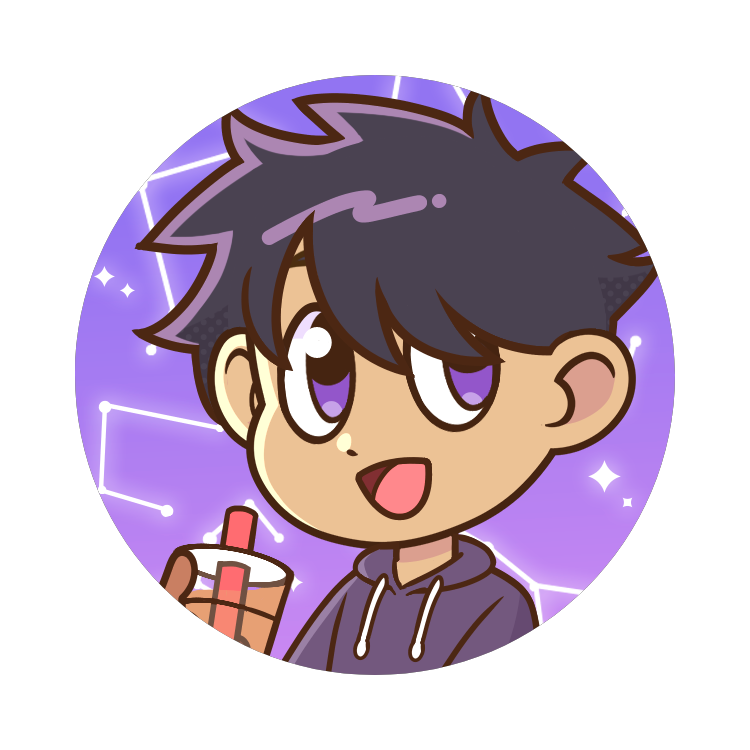
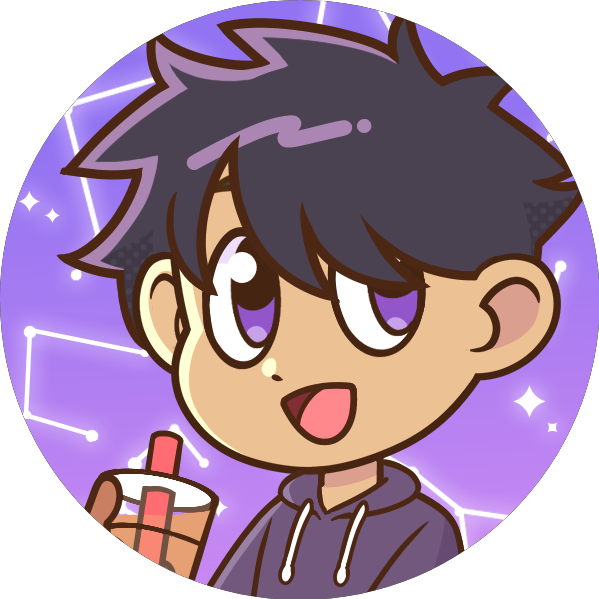
fix

diff --git a/index.html b/index.html
@@ -6,7 +6,7 @@
         <title>Rohan Bansal</title>
         <meta property="og:type" content="website">
         <meta name="description" content="Hacker, Maker, and Guitarist in Southern California.">
-        <link rel="icon" type="image/png" sizes="750x750" href="img/me.png">
+        <link rel="icon" type="image/png" sizes="599x599" href="img/me.png">
 
         <link href="https://fonts.googleapis.com/css2?family=IBM+Plex+Sans:wght@700&display=swap" rel="stylesheet"> 
         <link rel="stylesheet" href="https://cdnjs.cloudflare.com/ajax/libs/animate.css/4.1.1/animate.min.css"/>
@@ -18,25 +18,25 @@
         <div class="social-media-column animate__animated animate__fadeInUp" orientation="left">
             <ul class="sm-items">
                 <li>
-                    <a href="https://github.com/rohan-bansal" aria-label="GitHub">
+                    <a href="https://github.com/rohan-bansal" aria-label="GitHub" target="_blank">
                         <svg xmlns="http://www.w3.org/2000/svg" role="img" viewBox="0 0 438.549 438.549"><title>GitHub</title><path d="M409.132,114.573c-19.608-33.596-46.205-60.194-79.798-79.8C295.736,15.166,259.057,5.365,219.271,5.365 c-39.781,0-76.472,9.804-110.063,29.408c-33.596,19.605-60.192,46.204-79.8,79.8C9.803,148.168,0,184.854,0,224.63 c0,47.78,13.94,90.745,41.827,128.906c27.884,38.164,63.906,64.572,108.063,79.227c5.14,0.954,8.945,0.283,11.419-1.996 c2.475-2.282,3.711-5.14,3.711-8.562c0-0.571-0.049-5.708-0.144-15.417c-0.098-9.709-0.144-18.179-0.144-25.406l-6.567,1.136 c-4.187,0.767-9.469,1.092-15.846,1c-6.374-0.089-12.991-0.757-19.842-1.999c-6.854-1.231-13.229-4.086-19.13-8.559 c-5.898-4.473-10.085-10.328-12.56-17.556l-2.855-6.57c-1.903-4.374-4.899-9.233-8.992-14.559 c-4.093-5.331-8.232-8.945-12.419-10.848l-1.999-1.431c-1.332-0.951-2.568-2.098-3.711-3.429c-1.142-1.331-1.997-2.663-2.568-3.997 c-0.572-1.335-0.098-2.43,1.427-3.289c1.525-0.859,4.281-1.276,8.28-1.276l5.708,0.853c3.807,0.763,8.516,3.042,14.133,6.851 c5.614,3.806,10.229,8.754,13.846,14.842c4.38,7.806,9.657,13.754,15.846,17.847c6.184,4.093,12.419,6.136,18.699,6.136 c6.28,0,11.704-0.476,16.274-1.423c4.565-0.952,8.848-2.383,12.847-4.285c1.713-12.758,6.377-22.559,13.988-29.41 c-10.848-1.14-20.601-2.857-29.264-5.14c-8.658-2.286-17.605-5.996-26.835-11.14c-9.235-5.137-16.896-11.516-22.985-19.126 c-6.09-7.614-11.088-17.61-14.987-29.979c-3.901-12.374-5.852-26.648-5.852-42.826c0-23.035,7.52-42.637,22.557-58.817 c-7.044-17.318-6.379-36.732,1.997-58.24c5.52-1.715,13.706-0.428,24.554,3.853c10.85,4.283,18.794,7.952,23.84,10.994 c5.046,3.041,9.089,5.618,12.135,7.708c17.705-4.947,35.976-7.421,54.818-7.421s37.117,2.474,54.823,7.421l10.849-6.849 c7.419-4.57,16.18-8.758,26.262-12.565c10.088-3.805,17.802-4.853,23.134-3.138c8.562,21.509,9.325,40.922,2.279,58.24 c15.036,16.18,22.559,35.787,22.559,58.817c0,16.178-1.958,30.497-5.853,42.966c-3.9,12.471-8.941,22.457-15.125,29.979 c-6.191,7.521-13.901,13.85-23.131,18.986c-9.232,5.14-18.182,8.85-26.84,11.136c-8.662,2.286-18.415,4.004-29.263,5.146 c9.894,8.562,14.842,22.077,14.842,40.539v60.237c0,3.422,1.19,6.279,3.572,8.562c2.379,2.279,6.136,2.95,11.276,1.995 c44.163-14.653,80.185-41.062,108.068-79.226c27.88-38.161,41.825-81.126,41.825-128.906 C438.536,184.851,428.728,148.168,409.132,114.573z"></path>
                         </svg>
                     </a>
                 </li>
                 <li>
-                    <a href="https://www.linkedin.com/in/bansal-rohan" aria-label="Linkedin">
+                    <a href="https://www.linkedin.com/in/bansal-rohan" aria-label="Linkedin" target="_blank">
                         <svg xmlns="http://www.w3.org/2000/svg" role="img" viewBox="0 0 430.117 430.117"><title>LinkedIn</title><path d="M430.117,261.543V420.56h-92.188V272.193c0-37.271-13.334-62.707-46.703-62.707 c-25.473,0-40.632,17.142-47.301,33.724c-2.432,5.928-3.058,14.179-3.058,22.477V420.56h-92.219c0,0,1.242-251.285,0-277.32h92.21 v39.309c-0.187,0.294-0.43,0.611-0.606,0.896h0.606v-0.896c12.251-18.869,34.13-45.824,83.102-45.824 C384.633,136.724,430.117,176.361,430.117,261.543z M52.183,9.558C20.635,9.558,0,30.251,0,57.463 c0,26.619,20.038,47.94,50.959,47.94h0.616c32.159,0,52.159-21.317,52.159-47.94C103.128,30.251,83.734,9.558,52.183,9.558z M5.477,420.56h92.184v-277.32H5.477V420.56z"></path>
                         </svg>
                     </a>
                 </li>
                 <li>
-                    <a href="https://keybase.io/rohan_bansal" aria-label="KeyBase">
+                    <a href="https://keybase.io/rohan_bansal" aria-label="KeyBase" target="_blank">
                         <svg xmlns="http://www.w3.org/2000/svg" viewBox="0 0 448 512"><path d="M286.17 419a18 18 0 1 0 18 18 18 18 0 0 0-18-18zm111.92-147.6c-9.5-14.62-39.37-52.45-87.26-73.71q-9.1-4.06-18.38-7.27a78.43 78.43 0 0 0-47.88-104.13c-12.41-4.1-23.33-6-32.41-5.77-.6-2-1.89-11 9.4-35L198.66 32l-5.48 7.56c-8.69 12.06-16.92 23.55-24.34 34.89a51 51 0 0 0-8.29-1.25c-41.53-2.45-39-2.33-41.06-2.33-50.61 0-50.75 52.12-50.75 45.88l-2.36 36.68c-1.61 27 19.75 50.21 47.63 51.85l8.93.54a214 214 0 0 0-46.29 35.54C14 304.66 14 374 14 429.77v33.64l23.32-29.8a148.6 148.6 0 0 0 14.56 37.56c5.78 10.13 14.87 9.45 19.64 7.33 4.21-1.87 10-6.92 3.75-20.11a178.29 178.29 0 0 1-15.76-53.13l46.82-59.83-24.66 74.11c58.23-42.4 157.38-61.76 236.25-38.59 34.2 10.05 67.45.69 84.74-23.84.72-1 1.2-2.16 1.85-3.22a156.09 156.09 0 0 1 2.8 28.43c0 23.3-3.69 52.93-14.88 81.64-2.52 6.46 1.76 14.5 8.6 15.74 7.42 1.57 15.33-3.1 18.37-11.15C429 443 434 414 434 382.32c0-38.58-13-77.46-35.91-110.92zM142.37 128.58l-15.7-.93-1.39 21.79 13.13.78a93 93 0 0 0 .32 19.57l-22.38-1.34a12.28 12.28 0 0 1-11.76-12.79L107 119c1-12.17 13.87-11.27 13.26-11.32l29.11 1.73a144.35 144.35 0 0 0-7 19.17zm148.42 172.18a10.51 10.51 0 0 1-14.35-1.39l-9.68-11.49-34.42 27a8.09 8.09 0 0 1-11.13-1.08l-15.78-18.64a7.38 7.38 0 0 1 1.34-10.34l34.57-27.18-14.14-16.74-17.09 13.45a7.75 7.75 0 0 1-10.59-1s-3.72-4.42-3.8-4.53a7.38 7.38 0 0 1 1.37-10.34L214 225.19s-18.51-22-18.6-22.14a9.56 9.56 0 0 1 1.74-13.42 10.38 10.38 0 0 1 14.3 1.37l81.09 96.32a9.58 9.58 0 0 1-1.74 13.44zM187.44 419a18 18 0 1 0 18 18 18 18 0 0 0-18-18z"/>
                         </svg>
                     </a>
                 </li>
                 <li>
-                    <a href="https://twitter.com/rbansal22" aria-label="Twitter">
+                    <a href="https://twitter.com/rbansal22" aria-label="Twitter" target="_blank">
                         <svg xmlns="http://www.w3.org/2000/svg" role="img" viewBox="0 0 612 612"><title>Twitter</title><path d="M612,116.258c-22.525,9.981-46.694,16.75-72.088,19.772c25.929-15.527,45.777-40.155,55.184-69.411 c-24.322,14.379-51.169,24.82-79.775,30.48c-22.907-24.437-55.49-39.658-91.63-39.658c-69.334,0-125.551,56.217-125.551,125.513 c0,9.828,1.109,19.427,3.251,28.606C197.065,206.32,104.556,156.337,42.641,80.386c-10.823,18.51-16.98,40.078-16.98,63.101 c0,43.559,22.181,81.993,55.835,104.479c-20.575-0.688-39.926-6.348-56.867-15.756v1.568c0,60.806,43.291,111.554,100.693,123.104 c-10.517,2.83-21.607,4.398-33.08,4.398c-8.107,0-15.947-0.803-23.634-2.333c15.985,49.907,62.336,86.199,117.253,87.194 c-42.947,33.654-97.099,53.655-155.916,53.655c-10.134,0-20.116-0.612-29.944-1.721c55.567,35.681,121.536,56.485,192.438,56.485 c230.948,0,357.188-191.291,357.188-357.188l-0.421-16.253C573.872,163.526,595.211,141.422,612,116.258z"></path>
                         </svg>
                     </a>
@@ -46,9 +46,11 @@
 
         <div class="title-text animate__animated animate__fadeInDown">
             <div id="intro-div">
-                <h1 class="intro-name">Hey there, I'm 
+                <div class="intro-div-info">
+                    <h1 class="intro-name">Hey there, I'm 
+                    </h1>
                     <span class="gradient-name">Rohan Bansal</span>
-                </h1>
+                </div>
             </div>
         </div>
         <div class="body-section">

diff --git a/css/main.css b/css/main.css
@@ -16,7 +16,9 @@ body {
 }
 
 .title-text {
-    margin: 4% auto;
+    margin: 0 auto;
+    margin-top: 4%;
+    margin-bottom: 2%;
     text-align: center;
     width: 50%;
     word-wrap: break-word;
@@ -91,4 +93,21 @@ body {
     height: 90px;
     margin: 0px auto;
     background-color: #0E0D0F;
+}
+
+#intro-div h1 {
+    margin: 0;
+}
+
+#intro-div {
+    text-align: center;
+    display: flex;
+    justify-content: center;
+    align-items: center;
+}
+
+.intro-div-info {
+    display: flex;
+    flex-direction: column;
+    align-items: flex-start;
 }
